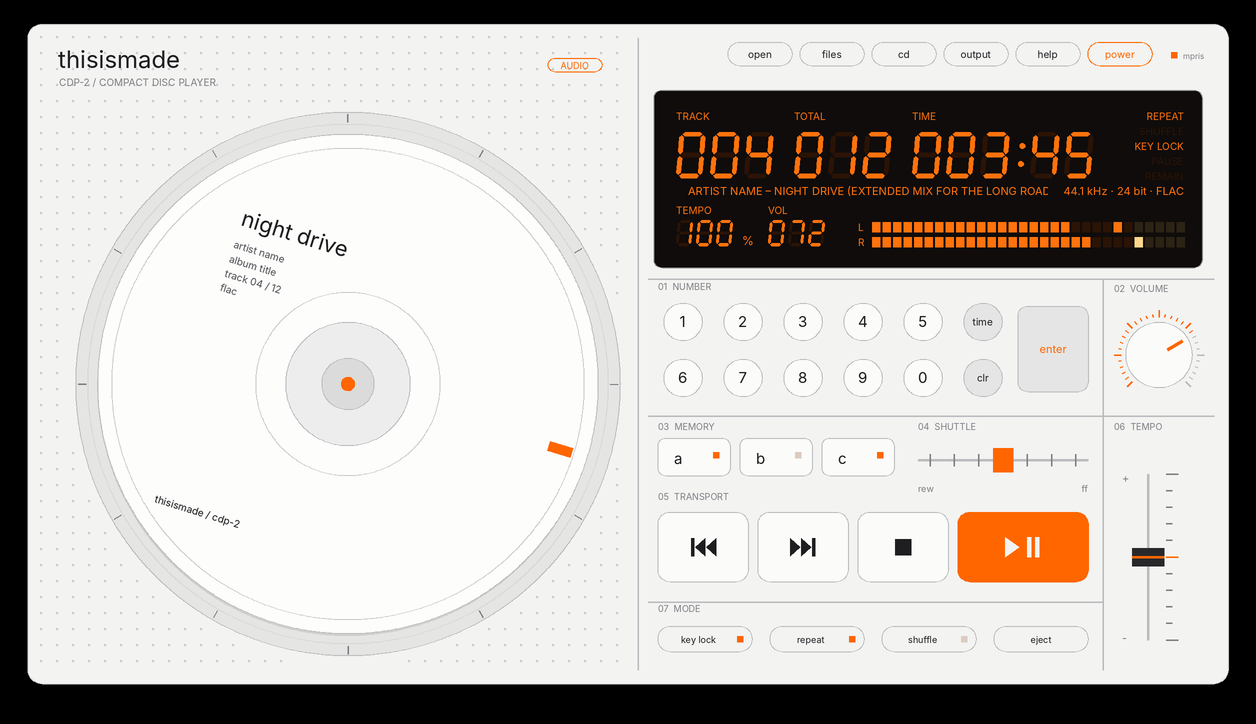
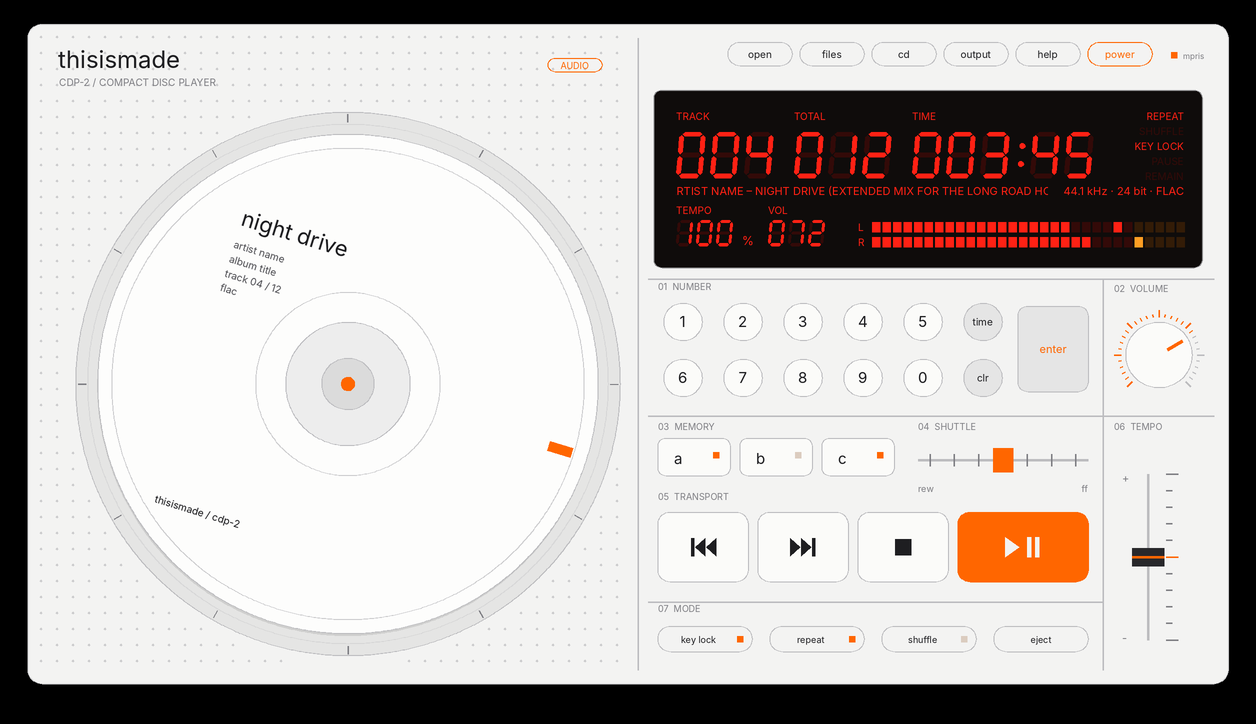
Minimal-Design: rotes Display
Claude-Session: https://claude.ai/code/session_01SsXMRv7SwooBpQzsssY7KT

Changed region(s): [[0.5279, 0.1519, 0.9315, 0.3343], [0.6831, 0.3039, 0.9005, 0.3646], [0.9005, 0.1519, 0.9315, 0.2127]]

diff --git a/tmplayer/face_minimal.py b/tmplayer/face_minimal.py
@@ -25,8 +25,8 @@ KEY = (0.985, 0.985, 0.98)
 KEY_HI = (0.90, 0.90, 0.90)
 ORANGE = (1.0, 0.40, 0.0)
 ORANGE_DIM = (0.86, 0.80, 0.75)
-SEG_ON = (1.0, 0.45, 0.05)
-SEG_OFF = (0.17, 0.075, 0.02)
+SEG_ON = (1.0, 0.13, 0.08)
+SEG_OFF = (0.20, 0.04, 0.035)
 MONO = "monospace"
 
 
@@ -171,7 +171,7 @@ def draw_dynamic(cr, st):
         _mono(cr, "no disc", DISC_C[0], DISC_C[1] + 70, 13, TXT, "center")
         _mono(cr, "open / files / drop", DISC_C[0], DISC_C[1] + 90, 10, TXT_DIM, "center")
 
-    _display(cr, st, SEG_ON, SEG_OFF, (1.0, 0.85, 0.55), (0.18, 0.14, 0.08))
+    _display(cr, st, SEG_ON, SEG_OFF, (1.0, 0.62, 0.14), (0.20, 0.11, 0.03))
 
     # Ziffernblock: runde Tasten
     for lab, x, y in KEYS:
